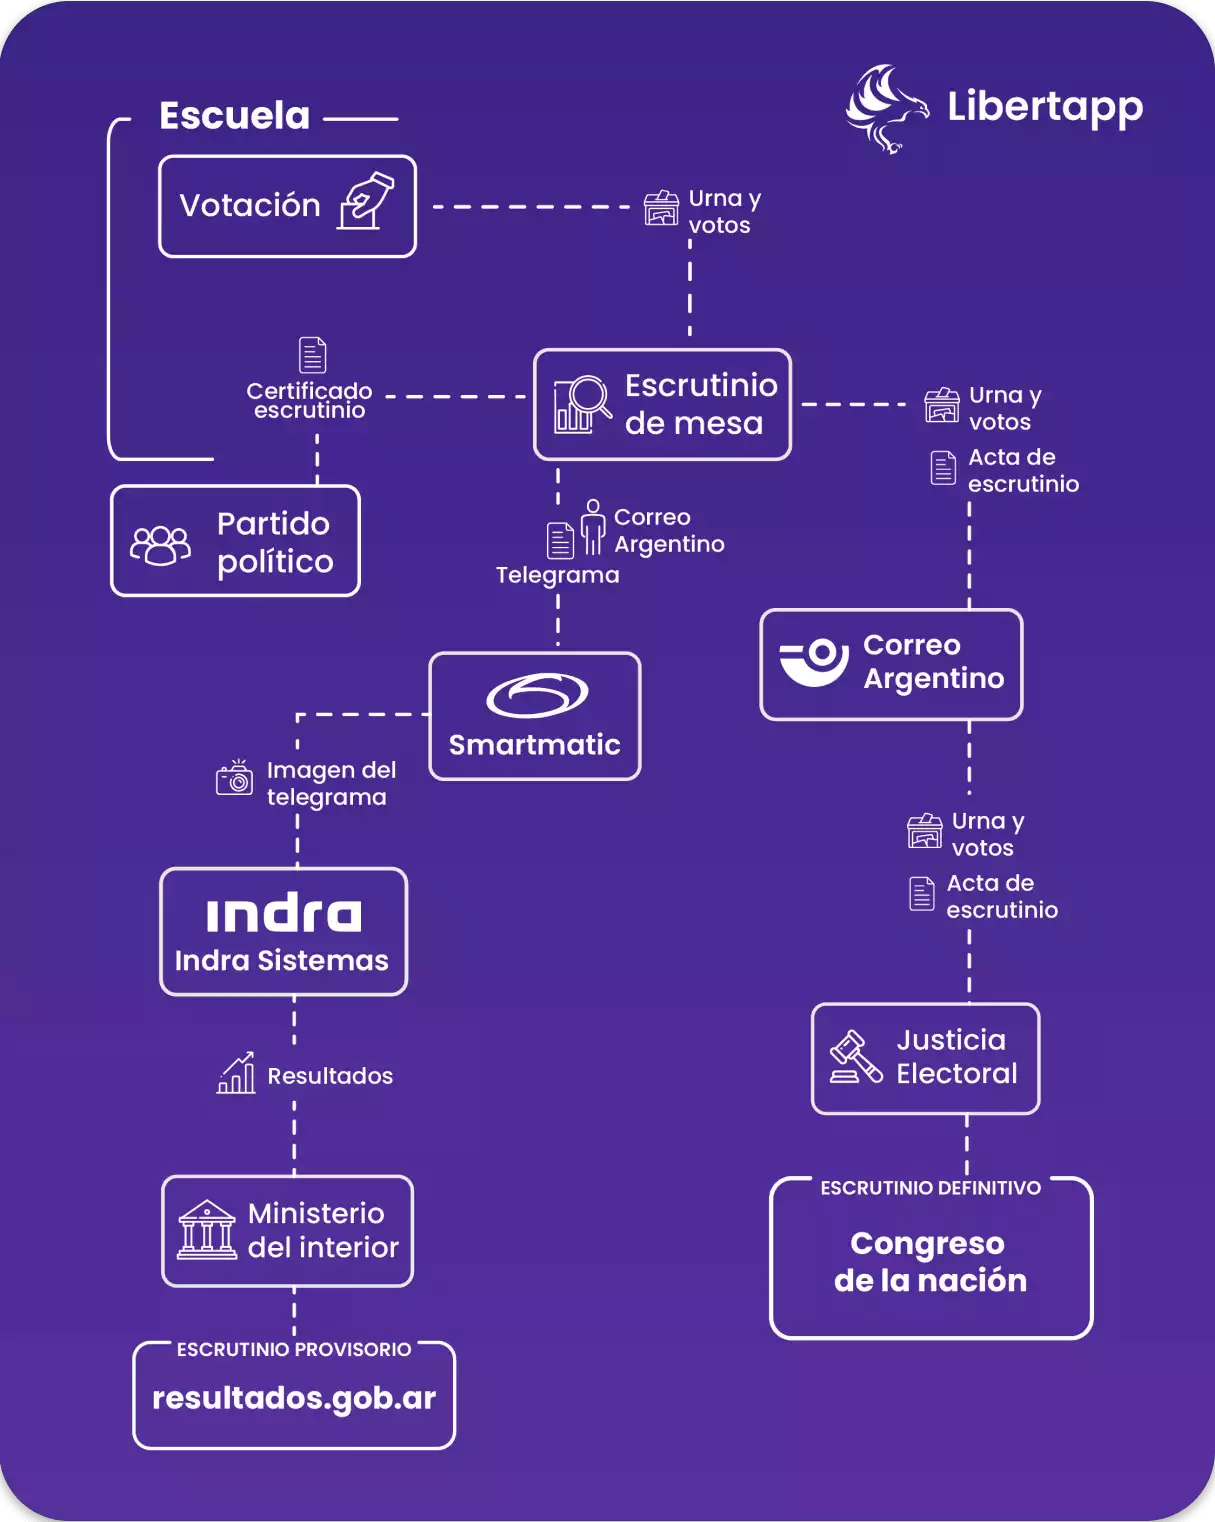
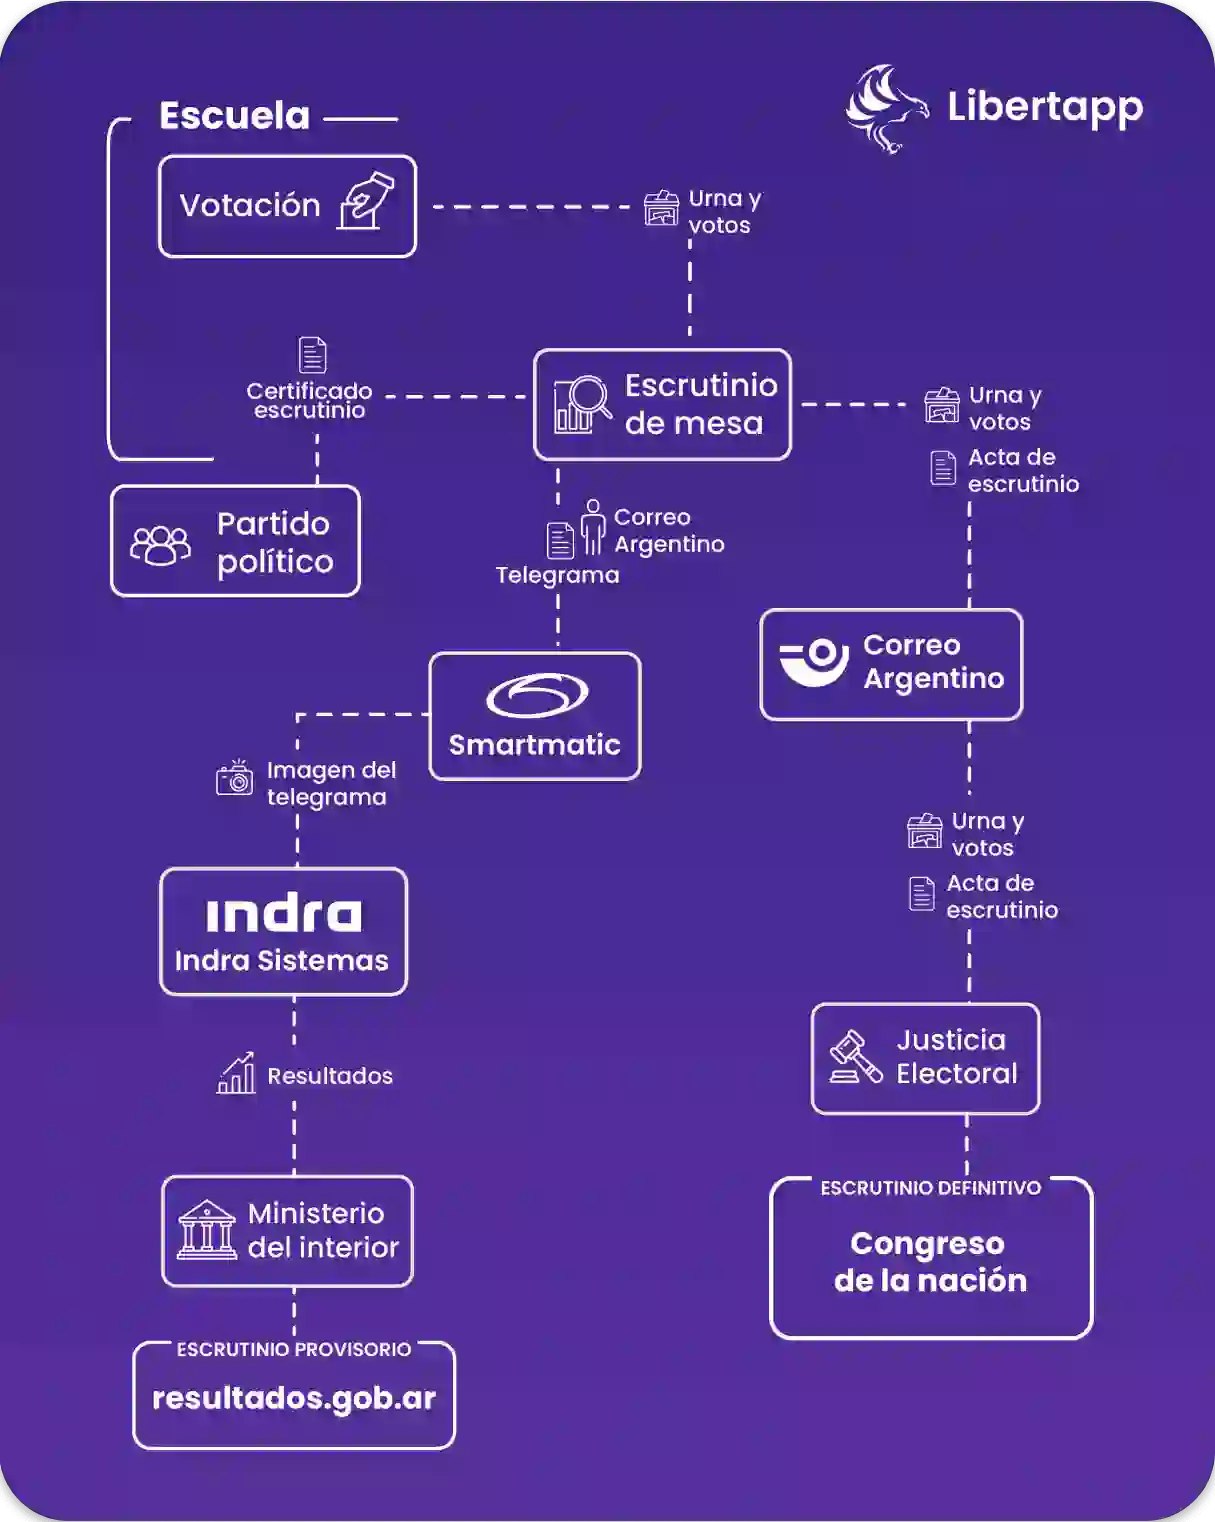
Optimize IMG again

diff --git a/index.html b/index.html
@@ -275,7 +275,7 @@
           </div>
           <!-- End Col -->
           <div class="col-lg-5 order-lg-1 mb-4 mb-lg-0">
-            <img src="assets/img/sections/ruta.png" alt="telegram flow without libertapp" title="Telegram flow" class="img-fluid wow fadeInUpSmall" data-wow-duration="1s"
+            <img src="assets/img/sections/ruta.webp" alt="telegram flow without libertapp" title="Telegram flow" class="img-fluid wow fadeInUpSmall" data-wow-duration="1s"
               data-wow-delay=".2s">
           </div>
           <!-- End Col -->
